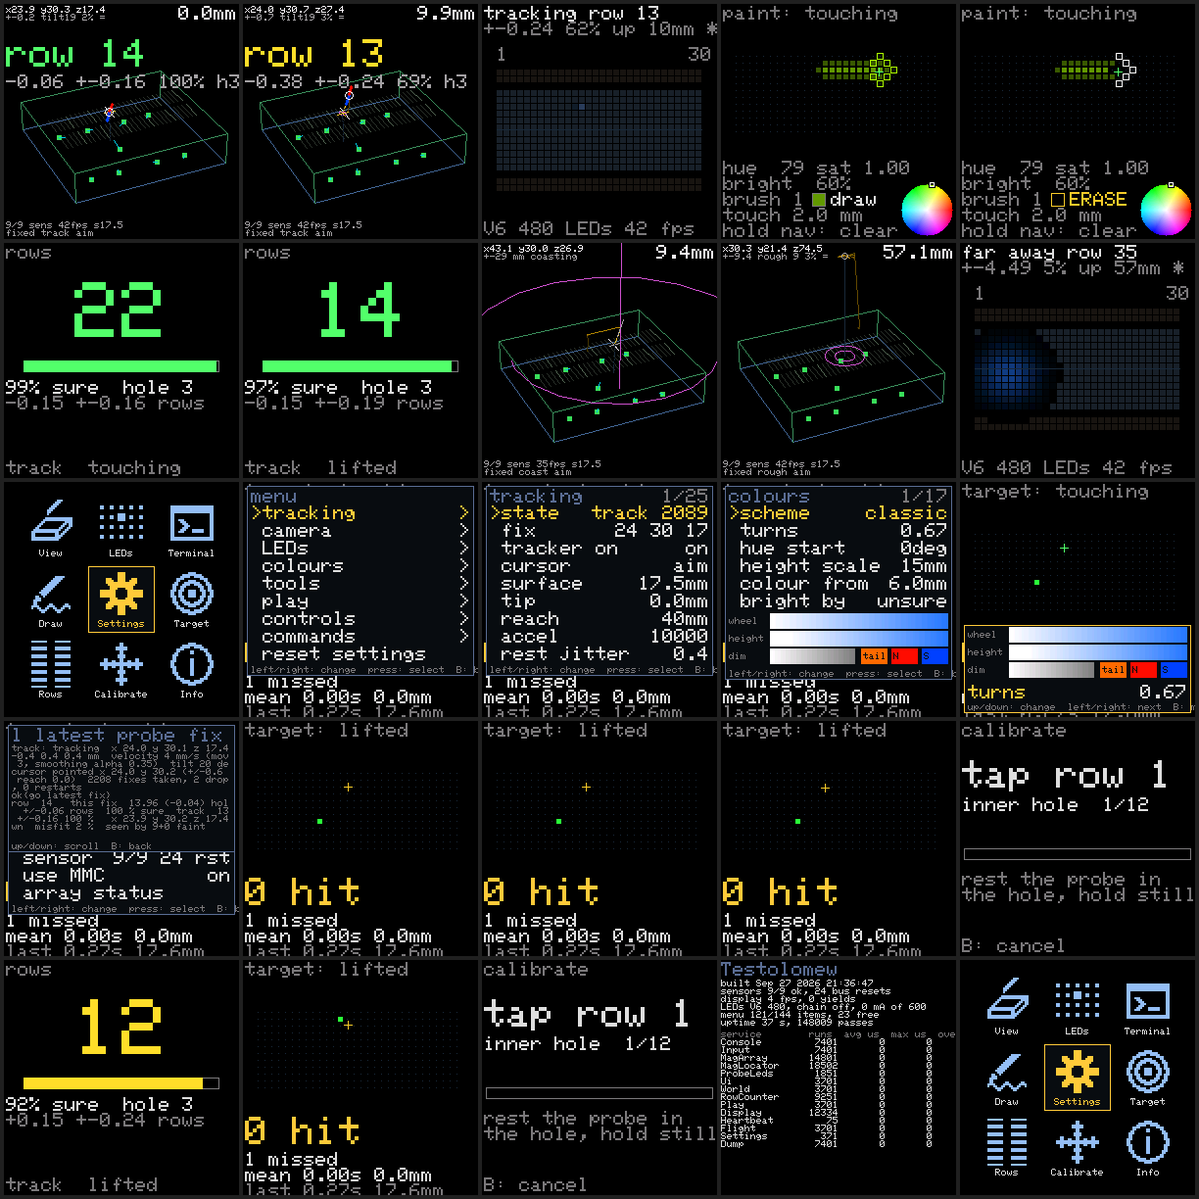
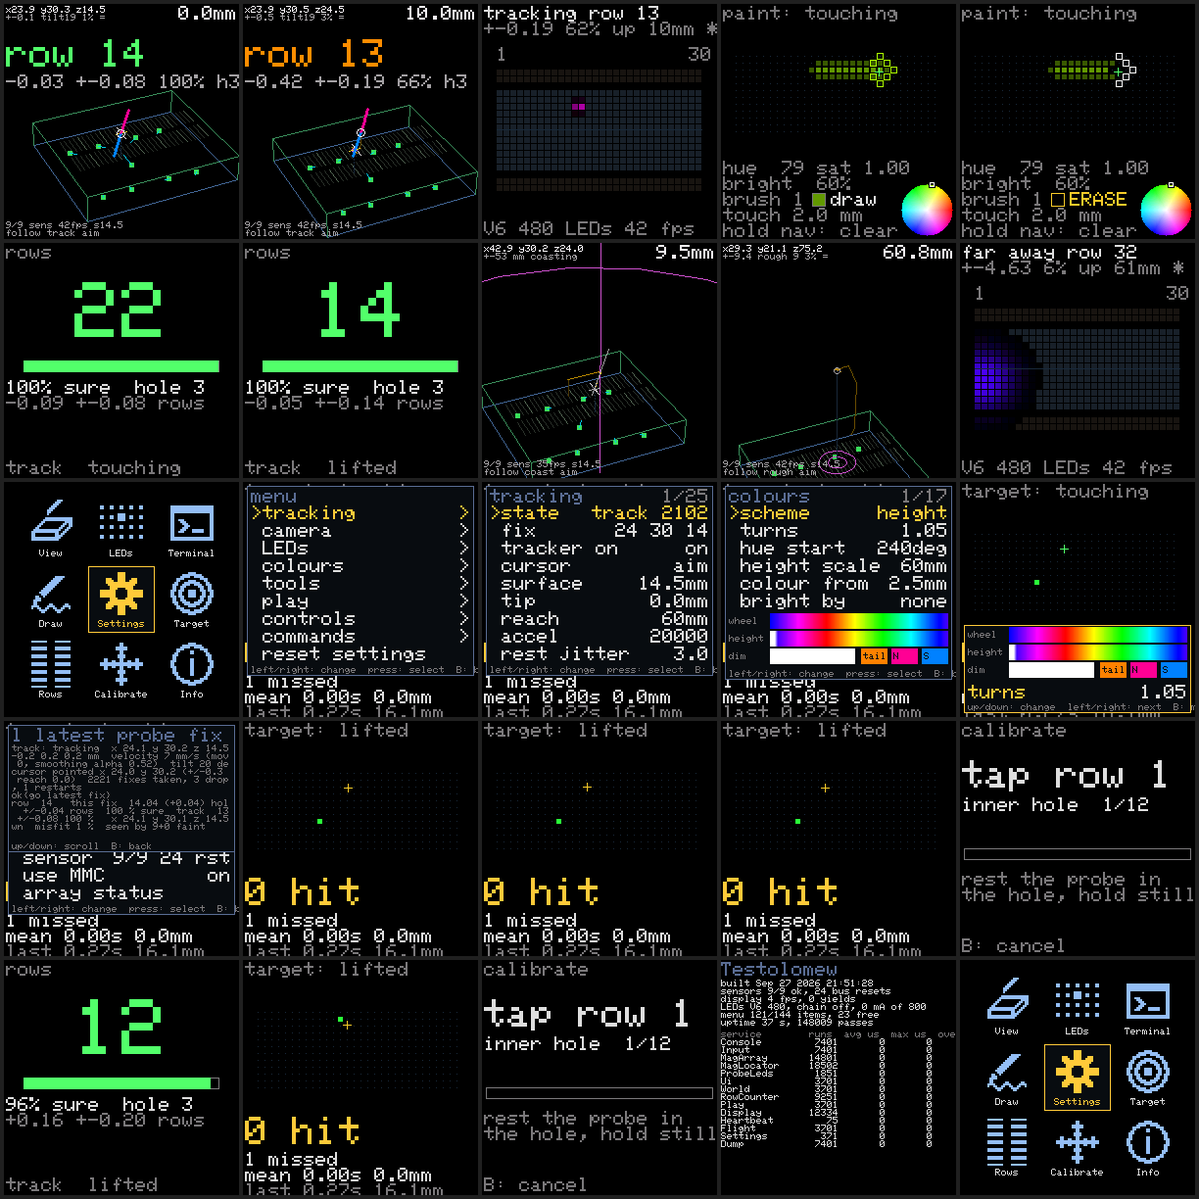
The bench's settings as the defaults (Kevin, 2026-09-27 21:47: "grab the settings off the board right now and set those all as defaults"; read with s). Every compile-time default is now what the board had, noted in the source where it differs from before (knobs.md section 4 has the table): the track

diff --git a/src/magfit/MagTracker.h b/src/magfit/MagTracker.h
@@ -51,24 +51,24 @@
 
 #include "Vec3.h"
 
-#define MAGTRACK_ACCEL_SIGMA 10000.0f     // mm/s^2: how jerky a hand's motion may be (process noise). 3000 lagged 20 ms; this lags 10 with the same rest jitter after the 1-Euro (tools/hostsim/pencil.cpp)
+#define MAGTRACK_ACCEL_SIGMA 20000.0f     // mm/s^2: how jerky a hand's motion may be (process noise). 3000 lagged 20 ms; this lags 10 with the same rest jitter after the 1-Euro (tools/hostsim/pencil.cpp) (the bench's setting on 2026-09-27, taken as the default: 10000 until then)
 #define MAGTRACK_ROUGH_ACCEL_SIGMA 2000.0f // mm/s^2: the process noise while ROUGH (far, 12 mm fixes: averaging beats following)
-#define MAGTRACK_SIGMA_FLOOR_MM 0.4f      // the array's systematic error, not in the fit's bar: sigma_R, the std of the fix's second differences over sqrt 6 (tools/fixstats.py), measured 0.16-0.19 mm at rest with the 4232 magnet (2026-09-19 capture) and scaled to the 1839 one; the bench protocol (knobs.md section 8) replaces it (0.3 until 2026-09-23)
-#define MAGTRACK_GATE 4.0f                // fixes further than this many sigmas from the track count for LESS (Huber: their variance grown by the square of the excess)...
+#define MAGTRACK_SIGMA_FLOOR_MM 0.2f      // the array's systematic error, not in the fit's bar: sigma_R, the std of the fix's second differences over sqrt 6 (tools/fixstats.py), measured 0.16-0.19 mm at rest with the 4232 magnet (2026-09-19 capture) and scaled to the 1839 one; the bench protocol (knobs.md section 8) replaces it (0.3 until 2026-09-23) (the bench's setting on 2026-09-27, taken as the default: 0.4 until then)
+#define MAGTRACK_GATE 2.0f                // fixes further than this many sigmas from the track count for LESS (Huber: their variance grown by the square of the excess)... (the bench's setting on 2026-09-27, taken as the default: 4 until then)
 #define MAGTRACK_GATE_DROP 11.3f          // ...and only past this many are dropped (sqrt 8 x the gate: a fix weighed to an eighth is worth keeping, beyond that it is another place)
 #define MAGTRACK_MAX_SPEED_MM_S 3000.0f   // faster than a hand moves over a desk
 #define MAGTRACK_REINIT_AFTER 3           // dropped fixes in a row that agree = the track was wrong
 #define MAGTRACK_REINIT_AGREE_MM 6.0f     // ...agree = within this of each other
 #define MAGTRACK_COAST_MS 400             // how long a track outlives its last fix
-#define MAGTRACK_ROUGH_HOLD_S 1.0f        // ...and how long a ROUGH one (the far glow) outlives its last rough fix (menu: far hold; 2.5 until 2026-09-23: a stale glow for two seconds after the probe had gone)
+#define MAGTRACK_ROUGH_HOLD_S 3.0f        // ...and how long a ROUGH one (the far glow) outlives its last rough fix (menu: far hold; 2.5 until 2026-09-23: a stale glow for two seconds after the probe had gone) (the bench's setting on 2026-09-27, taken as the default: 1.0 until then)
 #define MAGTRACK_ROUGH_SPREAD_MM_S 8.0f   // while it is held its bar widens this fast (the glow spreads and dims, honestly)
 #define MAGTRACK_COAST_TAU_S 0.15f        // velocity dies away with this time constant while coasting
-#define MAGTRACK_SHAFT_MIN_CUTOFF 1.0f    // Hz: the shaft direction's 1-Euro filter at rest (menu: shaft Hz)
-#define MAGTRACK_SHAFT_BETA 10.0f         // per unit/s of a component's change: how fast the cutoff opens as the pencil turns (menu: shaft beta)
-#define MAGTRACK_VIEW_MIN_CUTOFF 1.5f     // Hz: the 1-Euro filter on what the SCENE draws of the magnet (menu: view)
-#define MAGTRACK_VIEW_BETA 0.5f           // per mm/s (0.05 lagged 40 ms at writing speed; this 20, jitter at rest 0.025 mm - pencil.cpp)
+#define MAGTRACK_SHAFT_MIN_CUTOFF 3.6f    // Hz: the shaft direction's 1-Euro filter at rest (menu: shaft Hz) (the bench's setting on 2026-09-27, taken as the default: 1.0 until then)
+#define MAGTRACK_SHAFT_BETA 1.0f         // per unit/s of a component's change: how fast the cutoff opens as the pencil turns (menu: shaft beta) (the bench's setting on 2026-09-27, taken as the default: 10 until then)
+#define MAGTRACK_VIEW_MIN_CUTOFF 2.7f     // Hz: the 1-Euro filter on what the SCENE draws of the magnet (menu: view) (the bench's setting on 2026-09-27, taken as the default: 1.5 until then)
+#define MAGTRACK_VIEW_BETA 0.04f           // per mm/s (0.05 lagged 40 ms at writing speed; this 20, jitter at rest 0.025 mm - pencil.cpp) (the bench's setting on 2026-09-27, taken as the default: 0.5 until then)
 #define MAGTRACK_SHAFT_FLIP_DEG 45.0f     // a shaft swing bigger than this in one frame waits for confirmation
-#define MAGTRACK_MAX_REACH_MM 40.0f       // the pointer never reaches further from the tip than this
+#define MAGTRACK_MAX_REACH_MM 60.0f       // the pointer never reaches further from the tip than this (the bench's setting on 2026-09-27, taken as the default: 40 until then)
 // ...and never as if the probe were flatter than this: the reach is drop x
 // tan(tilt), and past 70 degrees the tangent runs away - at 84 degrees a
 // millimetre of drop and the shaft's 0.8 degree of jitter at rest put the
@@ -84,8 +84,8 @@
 // projection turned 0.8 deg of tilt jitter into 1.5 mm of cursor, and a tap
 // at an angle lit the row the shaft pointed at, not the one tapped.)
 #define MAGTRACK_CONTACT_MM 1.5f
-#define MAGTRACK_ONE_EURO_MIN_CUTOFF 1.0f // Hz: how much the cursor may jitter at rest
-#define MAGTRACK_ONE_EURO_BETA 0.5f       // per mm/s: how fast the cutoff opens with speed (pencil.cpp: 20 ms behind at writing speed, 0.02 mm jitter at rest)
+#define MAGTRACK_ONE_EURO_MIN_CUTOFF 3.2f // Hz: how much the cursor may jitter at rest (the bench's setting on 2026-09-27, taken as the default: 1.0 until then)
+#define MAGTRACK_ONE_EURO_BETA 0.12f       // per mm/s: how fast the cutoff opens with speed (pencil.cpp: 20 ms behind at writing speed, 0.02 mm jitter at rest) (the bench's setting on 2026-09-27, taken as the default: 0.5 until then)
 #define MAGTRACK_ONE_EURO_D_CUTOFF 1.0f   // Hz: smoothing of the speed estimate itself
 // The cursor's and the view's filters slow with the point's height above the
 // surface: their cutoffs (Hz) are divided by (1 + height / HZ_HALF) and their
@@ -98,7 +98,7 @@
 // speed estimate's noise is what opens the filter at rest, and far out that
 // noise is all there is. The rough fix's own calmer filter (0.5 Hz, no beta)
 // went with these: continuous where that was a step at the 5 mm bar.
-#define MAGTRACK_HZ_HALF_MM 40.0f
+#define MAGTRACK_HZ_HALF_MM 25.0f // (the bench's setting on 2026-09-27, taken as the default: 40 until then)
 #define MAGTRACK_BETA_HALF_MM 20.0f
 
 enum MagTrackState {

diff --git a/src/magfit/MagLocator.h b/src/magfit/MagLocator.h
@@ -54,7 +54,7 @@
 // moving/at-rest latch with hysteresis was tried and fed on itself the
 // same way the old rule did.
 #define MAGLOC_SPEED_WINDOW 10
-#define MAGLOC_SPEED_JITTER_K 0.4f
+#define MAGLOC_SPEED_JITTER_K 3.0f // (the bench's setting on 2026-09-27, taken as the default: 0.4 until then)
 
 // A magnet is "present" when the strongest smoothed reading passes this. A fix
 // is then attempted once three sensors notice it at all - and noticing means
@@ -64,7 +64,7 @@
 // however little it reads - "almost nothing here" pins a magnet down too - and
 // what decides whether the answer is any good is its error bar.) So a weak
 // magnet close to two sensors, with its neighbours down at 0.02 mT, locks.
-#define MAGLOC_PRESENT_MT 0.04f // the menu's "presence" lever starts here (0.02-0.20); its corroboration - two TMAGs reading plainly - is at the lever too, below MAGLOC_SEEN_MT, so a strong magnet can be met further out where the zeros allow it (2026-09-26; the absent run's toggles say whether they do)
+#define MAGLOC_PRESENT_MT 0.02f // the menu's "presence" lever starts here (0.02-0.20); its corroboration - two TMAGs reading plainly - is at the lever too, below MAGLOC_SEEN_MT, so a strong magnet can be met further out where the zeros allow it (2026-09-26; the absent run's toggles say whether they do) (the bench's setting on 2026-09-27, taken as the default: 0.04 until then)
 #define MAGLOC_PRESENT_LOW 0.5f // ...and once present it stays so down to this fraction of it (hysteresis) - while a fix has been made in the last MAGLOC_PRESENT_HOLD_MS; with nothing fitting, presence needs the full level again (2026-09-22: a TMAG's 0.028 mT zero error after a boot held presence on at the half level for minutes, and the lattice ran twice a second for nothing)
 #define MAGLOC_PRESENT_HOLD_MS 2000
 // Presence takes the MMC56x3's word, or two TMAG5273s': no probe can be seen
@@ -156,7 +156,7 @@
 // would give them) - and the bar under MAGLOC_MAX_ERROR_MM (30: the far
 // probe at 90 mm has an 18 mm bar; a fix wider than 5, ROUGH_ABOVE_MM, is
 // rough). ASSUMPTION: the simulator's world; section 8's captures re-tune it.
-#define MAGLOC_FIT_MAX_CHI 2.0f
+#define MAGLOC_FIT_MAX_CHI 6.0f // (the bench's setting on 2026-09-27, taken as the default: 2.0 until then)
 // ...and a fix beyond the array's footprint by more than this needs to be
 // seen plainly by MAGLOC_OUTSIDE_MIN_SEEN sensors: a planar array cannot tell
 // a source past its edge from its mirror (the same readings from a magnet on
@@ -191,7 +191,7 @@
 // the row calibration never took a tap: the fitted height failed its
 // on-the-board test. Held at 2900 the taps took, 3 mm high and up to 6 mm
 // off.) 0 = never hold it (the console's K).
-#define MAGLOC_MAGNET_STRENGTH 1839.0f // the probe's, MEASURED on the bench 2026-09-22 23:50 (263 frames at 6 places); the 2026-09-18 probe's was 4232 (magcal 4213 +/- 4.5 %). A wiped board starts here; the learning takes over from the first near fixes
+#define MAGLOC_MAGNET_STRENGTH 3480.0f // the probe's, MEASURED on the bench 2026-09-22 23:50 (263 frames at 6 places); the 2026-09-18 probe's was 4232 (magcal 4213 +/- 4.5 %). A wiped board starts here; the learning takes over from the first near fixes (the bench's magnet as learned on 2026-09-27, taken as the default: 1839 until then)
 // Why it is held from boot rather than learned (2026-09-21): far from the
 // array only the MMC56x3 reads the magnet plainly, and its three numbers
 // are fitted EXACTLY by a weak magnet just over it or the real one far up -
@@ -275,7 +275,7 @@
 // (`c`) sets it from the height the point rests at; `S` types it. On the
 // bench the breadboard sits 17.5 mm over the sensors; on V6 the surface is
 // 7.1 mm above the base PCB (plus wherever the sensors sit below that).
-#define MAGLOC_BOARD_Z_MM 17.5f
+#define MAGLOC_BOARD_Z_MM 14.5f // (the bench's setting on 2026-09-27, taken as the default: 17.5 until then)
 
 // A fix goes to the tracker as a ROUGH one ("somewhere about here", the wide
 // glow on the LEDs, no row counted) rather than a proper one when its error

diff --git a/src/probeled/ProbeLedService.h b/src/probeled/ProbeLedService.h
@@ -38,7 +38,7 @@
 #define PROBELED_PERIOD_US 20000       // 50 Hz
 #define PROBELED_STREAM_EVERY 2        // stream at 25 Hz
 #define PROBELED_RAW_HOLD_MS 250       // with the tracker off, the last raw fix's cursor stays (as coasting) this long after a frame with no fix: a fast hand's refused frames were dark ones (2026-09-26)
-#define PROBELED_STRIP_BRIGHTNESS 1.0f // the menu's "strip" lever; 1 = the LEDs as bright as they go
+#define PROBELED_STRIP_BRIGHTNESS 0.62f // the menu's "strip" lever; 1 = the LEDs as bright as they go (the bench's setting on 2026-09-27, taken as the default: 1.0 until then)
 // The chain's current, kept under a budget: a frame that would draw more
 // than the budget is scaled down whole, so the picture keeps its shape and
 // the rail keeps its volts. The budget is the menu's "budget mA" (`stripMaxMa`,
@@ -55,7 +55,7 @@
 // model under the paint mode on 2026-09-19 (hence the ceiling and the
 // model's revision).
 #define PROBELED_MA_PER_CHANNEL 12.0f
-#define PROBELED_STRIP_MAX_MA 600.0f      // the menu's "budget mA" to start with (2026-09-19: 300 was far too dim with a breadboard on top of the LEDs; 1000 was set after, and the board browned out under it - see the ceiling)
+#define PROBELED_STRIP_MAX_MA 800.0f      // the menu's "budget mA" to start with (2026-09-19: 300 was far too dim with a breadboard on top of the LEDs; 1000 was set after, and the board browned out under it - see the ceiling) (the bench's setting on 2026-09-27, taken as the default: 600 until then - the ceiling PROBELED_STRIP_HARD_MAX_MA is still the most)
 #define PROBELED_STRIP_HARD_MAX_MA 800.0f // the ceiling the menu cannot pass: the 2026-09-19 brown-out was ~900 by this model, and the 2026-09-21 boot loop under a lit cursor with the budget at 1000-1100; the LEDs share the board's supply
 // ...and a frame's current may rise by at most this much over the last frame's (20 ms): a step is what a supply cannot follow - 0 to 600 mA in one frame
 // is the dip that resets the chip - so a cursor lighting up ramps over a few frames (a fall is not limited: less current is never the problem).

diff --git a/src/probeled/ProbeLeds.cpp b/src/probeled/ProbeLeds.cpp
@@ -152,29 +152,33 @@ void probeLedDefaultStyle( ProbeLedStyle* s ) {
     s->liftG = 120;
     s->liftB = 255; // blue in the air
     s->tail = false;       // no tail unless asked
-    s->tailHueDeg = 25.0f; // amber at the tail's far end
-    s->tailLength = 0.5f;  // halfway back toward the point
-    s->tailBright = 0.5f;
+    // The defaults are the bench's settings as they stood on 2026-09-27 (Kevin:
+    // "grab the settings off the board right now and set those all as
+    // defaults"); what they were before is noted where it differs. The tests
+    // pin the look they were written against (test_probeleds setUp).
+    s->tailHueDeg = 30.0f; // (25)
+    s->tailLength = 1.0f;  // the whole way back to the point (0.5)
+    s->tailBright = 1.0f;  // (0.5)
     s->peak = 1.0f;
     s->minSigmaRows = 0.33f;
     s->minSigmaAcrossMm = 0.9f;
-    s->spot = 1.0f;
-    s->spotByHeight = 0.0f;
-    s->liftFullMm = 15.0f;
+    s->spot = 0.9f;         // (1.0)
+    s->spotByHeight = 3.5f; // (0)
+    s->liftFullMm = 60.0f; // (15)
     s->attackS = 0.02f;
-    s->decayS = 0.12f;
-    s->scheme = PROBELED_SCHEME_CLASSIC;
-    s->hueTurns = 0.667f; // two thirds of the wheel: red to blue (the height scheme as it was)
-    s->hueStartDeg = 0.0f;
-    s->colourByMm = 6.0f;
-    s->brightBy = PROBELED_DATA_SURE;
-    s->brightAmount = 0.5f; // a coin-toss row at half
-    s->sparkleBy = PROBELED_DATA_HEIGHT;
+    s->decayS = 0.35f;                  // (0.12)
+    s->scheme = PROBELED_SCHEME_HEIGHT; // (classic)
+    s->hueTurns = 1.05f;                // (0.667: two thirds of the wheel, red to blue)
+    s->hueStartDeg = 240.0f;            // (0)
+    s->colourByMm = 2.5f;               // (6)
+    s->brightBy = PROBELED_DATA_NONE;   // (sure)
+    s->brightAmount = 1.0f;             // (0.5: a coin-toss row at half)
+    s->sparkleBy = PROBELED_DATA_NONE;  // (height)
     s->fullPeak = true;
     s->bloom = 0.0f;
     s->sparkle = 0.0f;
     s->pulse = 0.0f;
-    s->touchRing = false;
+    s->touchRing = true; // (off)
     s->ringRepeat = false;
 }
 

diff --git a/tools/hostsim/sim.cpp b/tools/hostsim/sim.cpp
@@ -52,6 +52,7 @@
 #include "JumperlOS.h"
 #include "MagArray.h"
 #include "MagFit.h"
+#include "Camera.h"
 #include "MagLocator.h"
 #include "Apps.h"
 #include "Menu.h"
@@ -442,6 +443,36 @@ static bool directive( const std::vector<std::string>& w, int lineNo ) {
         int i = atoi( w[ 1 ].c_str( ) );
         if ( i >= 0 && i < MAG_SENSOR_COUNT )
             world.deadUntilUs[ i ] = simMicros + (uint64_t)atol( w[ 2 ].c_str( ) ) * 1000u;
+    } else if ( d == "@reference" ) {
+        // The levers the scenes were written with (2026-09-25's defaults),
+        // whatever the firmware boots with: on 2026-09-27 every default
+        // became the bench's setting (presence 0.02, chi 6, gate 2 ...), which
+        // the phantom and stale-zero scenes are not about. The world's
+        // surface follows the locator's belief, as it did.
+        extern Camera viewCamera;
+        magLocator.presentMt = 0.04f;
+        magLocator.fitMaxChi = 2.0f;
+        magLocator.speedJitterK = 0.4f;
+        magLocator.boardZ = 17.5f;
+        world.surfaceZ = 17.5f;
+        magLocator.track.accelSigma = 10000.0f;
+        magLocator.track.sigmaFloorMm = 0.4f;
+        magLocator.track.gate = 4.0f;
+        magLocator.track.maxReachMm = 40.0f;
+        magLocator.track.roughHoldS = 1.0f;
+        magLocator.track.oneEuroMinCutoff = 1.0f;
+        magLocator.track.oneEuroBeta = 0.5f;
+        magLocator.track.viewMinCutoff = 1.5f;
+        magLocator.track.viewBeta = 0.5f;
+        magLocator.track.shaftMinCutoff = 1.0f;
+        magLocator.track.shaftBeta = 10.0f;
+        magLocator.track.hzHalfMm = 40.0f;
+        viewCamera.mode = CAMERA_FIXED;
+        viewCamera.tauS = 0.18f;
+        ui.shell.stepRepeatMs = 300.0f;
+        input.joyMenuAt = 0.25f;
+        input.joyMenuOff = 0.15f;
+        input.joyDead = 0.10f;
     } else if ( d == "@surface" && w.size( ) >= 2 ) {
         world.surfaceZ = (float)atof( w[ 1 ].c_str( ) );
     } else if ( d == "@tip" && w.size( ) >= 2 ) {

diff --git a/src/ui/Input.h b/src/ui/Input.h
@@ -56,7 +56,7 @@
 #define INPUT_PERIOD_US 5000
 #define INPUT_DEBOUNCE_MS BUTTON_DEBOUNCE_MS
 #define INPUT_HOLD_MS BUTTON_HOLD_MS
-#define INPUT_JOY_DEAD 0.10f  // the inner dead zone: this much of the travel round the centre is nothing (a scaled radial one: no step at its edge); the menu's "joy dead" (0.04 until 2026-09-25: Kevin, "increase the default deadzone")
+#define INPUT_JOY_DEAD 0.06f  // the inner dead zone: this much of the travel round the centre is nothing (a scaled radial one: no step at its edge); the menu's "joy dead" (0.04 until 2026-09-25: Kevin, "increase the default deadzone") (the bench's setting on 2026-09-27, taken as the default: 0.10 until then)
 #define INPUT_JOY_CENTRE_WITHIN 0.3f // the centre follows a stick that sits still this close to it...
 #define INPUT_JOY_CENTRE_STILL_MS 1500 // ...for this long (a hand holding a direction is not still that long at that little)
 #define INPUT_JOY_CENTRE_TAU_S 4.0f    // ...with this time constant
@@ -78,8 +78,8 @@
 // the tracker's debounce on top; 20/50 (2026-09-19) is the fast end that
 // still passes navtest - a wobble past 50 ms is a step, the trade Kevin
 // took. 10/20 was tried and decodes tilts as presses.
-#define INPUT_NAV_DIRECTION_MS 20
-#define INPUT_NAV_DIRECTION_WITH_PUSH_MS 50
+#define INPUT_NAV_DIRECTION_MS 25 // (the bench's setting on 2026-09-27, taken as the default: 20 until then)
+#define INPUT_NAV_DIRECTION_WITH_PUSH_MS 55 // (the bench's setting on 2026-09-27, taken as the default: 50 until then)
 #define INPUT_NAV_TRACE 32          // nav pattern changes remembered for `J`
 #define INPUT_EVENTS 32             // the event ring; a full one drops its oldest (counted: `j`)
 

diff --git a/test/test_magtracker/test_magtracker.cpp b/test/test_magtracker/test_magtracker.cpp
@@ -18,8 +18,28 @@
 
 static MagTrack track;
 
+// The levers these tests were written against (the defaults are the bench's
+// settings since 2026-09-27: accel 20000, floor 0.2, gate 2, the filters
+// 3.2 / 0.12 and 2.7 / 0.04, the shaft 3.6 / 1, far hold 3; the reach is
+// left at the define, which the cursor-modes test reads).
+static void referenceLevers( MagTrack* t ) {
+    t->accelSigma = 10000.0f;
+    t->sigmaFloorMm = 0.4f;
+    t->gate = 4.0f;
+    t->roughHoldS = 1.0f;
+    t->oneEuroMinCutoff = 1.0f;
+    t->oneEuroBeta = 0.5f;
+    t->viewMinCutoff = 1.5f;
+    t->viewBeta = 0.5f;
+    t->shaftMinCutoff = 1.0f;
+    t->shaftBeta = 10.0f;
+    t->hzHalfMm = 40.0f;
+    t->betaHalfMm = 20.0f;
+}
+
 void setUp( void ) {
     magTrackInit( &track, 17.5f, 0.0f );
+    referenceLevers( &track );
 }
 void tearDown( void ) {}
 
@@ -435,6 +455,7 @@ void test_smoothing_slows_with_height( void ) {
     for ( int run = 0; run < 4; run++ ) {
         srand( 7 );
         magTrackInit( &track, 17.5f, 0.0f );
+        referenceLevers( &track );
         float z = run == 0 ? 17.5f + 2.0f : 17.5f + track.hzHalfMm;
         if ( run == 2 )
             track.hzHalfMm = track.betaHalfMm = 0.0f; // both levers off
@@ -460,6 +481,7 @@ void test_smoothing_slows_with_height( void ) {
     // The tracker off: the fix is the track, and the cursor is that through the filter.
     srand( 7 );
     magTrackInit( &track, 17.5f, 0.0f );
+    referenceLevers( &track );
     track.enabled = false;
     Vec3 p = { 20.0f, 20.0f, 19.5f };
     float sumRaw = 0.0f, sumCursor = 0.0f;

diff --git a/src/ui/Camera.h b/src/ui/Camera.h
@@ -19,9 +19,9 @@
 // ---------------------------------------------------------------------------
 #include "Vec3.h"
 
-#define CAMERA_TAU_S 0.18f           // smoothing time constant (glide of every change; menu: camera)
-#define CAMERA_POV_TURN_TAU_S 0.6f   // POV: the direction follows the shaft this slowly (a probe's angle is noisy; menu: POV turn)
-#define CAMERA_POV_MOVE_TAU_S 0.3f   // POV: the position follows the point this slowly (menu: POV move)
+#define CAMERA_TAU_S 0.4f           // smoothing time constant (glide of every change; menu: camera) (the bench's setting on 2026-09-27, taken as the default: 0.18 until then)
+#define CAMERA_POV_TURN_TAU_S 0.9f   // POV: the direction follows the shaft this slowly (a probe's angle is noisy; menu: POV turn) (the bench's setting on 2026-09-27, taken as the default: 0.6 until then)
+#define CAMERA_POV_MOVE_TAU_S 1.2f   // POV: the position follows the point this slowly (menu: POV move) (the bench's setting on 2026-09-27, taken as the default: 0.3 until then)
 #define CAMERA_POV_AHEAD_MM 25.0f    // POV: the target is this far down the shaft from the point
 #define CAMERA_POV_ZOOM 5.0f         // POV: pixels per mm at the target (wide view)
 #define CAMERA_POV_MIN_TILT_DEG 4.0f // below this the shaft's yaw is meaningless: keep the last

diff --git a/test/test_probeleds/test_probeleds.cpp b/test/test_probeleds/test_probeleds.cpp
@@ -19,6 +19,24 @@ void setUp( void ) {
     ledLayoutV6( &v6 );
     ledLayoutV5( &v5 );
     probeLedDefaultStyle( &style );
+    // The look these tests were written against (the defaults are the
+    // bench's settings since 2026-09-27: the height scheme from 240 deg,
+    // a wide spot by height, no dimming, a long tail, the ring on).
+    style.scheme = PROBELED_SCHEME_CLASSIC;
+    style.hueTurns = 0.667f;
+    style.hueStartDeg = 0.0f;
+    style.liftFullMm = 15.0f;
+    style.colourByMm = 6.0f;
+    style.brightBy = PROBELED_DATA_SURE;
+    style.brightAmount = 0.5f;
+    style.sparkleBy = PROBELED_DATA_HEIGHT;
+    style.spot = 1.0f;
+    style.spotByHeight = 0.0f;
+    style.decayS = 0.12f;
+    style.touchRing = false;
+    style.tailLength = 0.5f;
+    style.tailBright = 0.5f;
+    style.tailHueDeg = 25.0f;
     probeLedClear( &frame, v6.count );
 }
 void tearDown( void ) {}

diff --git a/src/ui/StickDpad.h b/src/ui/StickDpad.h
@@ -28,8 +28,8 @@
 #include <stdbool.h>
 #include <stdint.h>
 
-#define STICK_DPAD_ON 0.25f     // a direction past this much of the raw travel (the setting "joy menu at")
-#define STICK_DPAD_OFF 0.15f    // ...and over once back inside this (the setting "joy menu off")
+#define STICK_DPAD_ON 0.55f     // a direction past this much of the raw travel (the setting "joy menu at") (the bench's setting on 2026-09-27, taken as the default: 0.25 until then)
+#define STICK_DPAD_OFF 0.4f    // ...and over once back inside this (the setting "joy menu off") (the bench's setting on 2026-09-27, taken as the default: 0.15 until then)
 #define STICK_DPAD_HOLD_MS 30   // a crossing has to last this long (a click's tilt does not)
 #define STICK_DPAD_REARM_MS 80  // after a direction ends, that axis has to rest inside the off band this long
 

diff --git a/src/apps/AppView.cpp b/src/apps/AppView.cpp
@@ -72,7 +72,7 @@
 #define VIEW_TRAIL_PERIOD_MS 40 // a trail point this often, ~2 s of history
 
 Camera viewCamera;
-ViewStyle viewStyle = { true, MAGNET_HALF_LENGTH_MM, 3.0f, 225.0f, 1.0f }; // the colours page: the poles shown, the bar half length, the hues of COLOR_NORTH / COLOR_SOUTH as they were, the field arrows at full
+ViewStyle viewStyle = { true, 14.0f, 325.0f, 210.0f, 1.0f }; // the colours page: the poles shown, the bar half length, the poles' hues, the field arrows at full (the bench's settings on 2026-09-27, taken as the defaults: 5 mm, 3 and 225 - COLOR_NORTH / COLOR_SOUTH - until then)
 
 static GFXcanvas16* canvas = nullptr; // the frame being drawn
 // The projection's copy of the camera, taken each frame.

diff --git a/src/play/Play.h b/src/play/Play.h
@@ -78,7 +78,7 @@ class PlayService : public Service {
 
     // Settings (the menu's play page; saved but for the mode and erase).
     int mode = PLAY_OFF;
-    float paintHue = 0.0f;         // degrees round the wheel
+    float paintHue = 324.0f;       // degrees round the wheel (the bench's on 2026-09-27; 0 until then)
     float paintSat = 1.0f;         // 0 = white at the centre, 1 = the rim
     float paintBright = 0.5f;      // the paint's level (the LEDs' own brightness levers still apply)
     float brushSize = 0.0f;        // rows around the LED under the point (a number item, whole)
